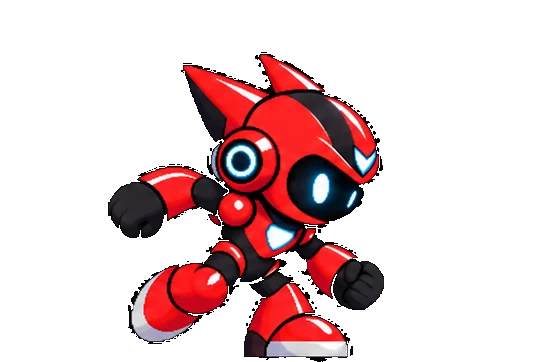
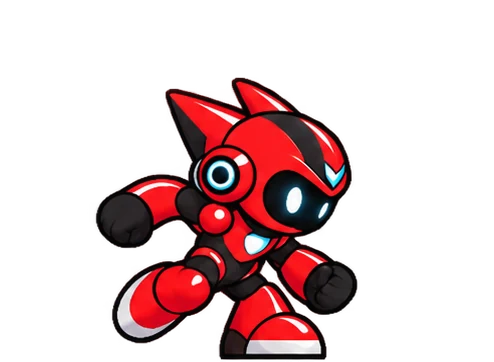
Swap in the updated slide frames and add the Impact VFX burst to the slide
- Slide frames re-extracted from the replaced slide sheet (transparent,
  no baked dust): same 362px height, pixel scale, feet line and head
  position as the run frames; canvas narrows to 494px, and the hitbox
  offset follows it so it stays centered under the robot.
- Slide kick-off: the VFX pack's "Impact" effect (14 frames at 30fps,
  shipped at half its native size) plays once just behind the feet when
  a slide starts. It stays where the slide began, so the robot slides
  away out of it, and removes itself when done.

Changed region(s): [[0.1822, 0.1519, 0.7287, 1.0]]

diff --git a/src/client/game/entities/Player.ts b/src/client/game/entities/Player.ts
@@ -11,6 +11,7 @@ import {
   playDeathExplosion,
   playHyperspeedTrail,
   playPlayerShatter,
+  playSlideImpact,
 } from '../systems/Juice';
 import { playSfx } from '../systems/Sfx';
 import {
@@ -37,8 +38,8 @@ import {
 // leg/arm contact poses, not near-duplicates — unlike the original 4x2
 // sheet, which only had one distinct leg pose and no way to fake a second
 // one that didn't look like the character spinning to face backwards).
-// player-slide-1..8 is the slide: drop in (1-2), slide with dust (3-6),
-// get back up (7-8) — see SLIDE_ANIM_KEY.
+// player-slide-1..8 is the slide: drop in (1-2), slide (3-6), get back up
+// (7-8) — see SLIDE_ANIM_KEY.
 export const PLAYER_TEXTURE_KEYS = [
   'player-idle',
   'player-run-1',
@@ -86,11 +87,11 @@ const RISE_KEY = 'player-jump-rise';
 const TUCK_KEY = 'player-jump-tuck';
 const FALL_KEY = 'player-jump-fall';
 const SLIDE_ANIM_KEY = 'player-slide';
-// The slide frames are wider than every other pose (legs stretch forward,
-// dust trails behind) but share its 362px height, pixel scale, and head
+// The slide frames are wider than every other pose (legs stretch forward)
+// but share its 362px height, pixel scale, and head
 // position, so they draw at PLAYER_BASE_SCALE without the robot changing
 // size; only the hitbox's x offset needs to know the wider canvas.
-const SLIDE_FRAME_WIDTH = 544;
+const SLIDE_FRAME_WIDTH = 494;
 // Share of SLIDE_DURATION_MS each slide frame holds: quick drop-in and
 // get-up, longer on the four sliding frames.
 const SLIDE_FRAME_WEIGHTS = [0.09, 0.09, 0.16, 0.16, 0.16, 0.16, 0.09, 0.09];
@@ -461,6 +462,8 @@ export class Player {
     this.slidePending = false;
     this.slideRemainingMs = SLIDE_DURATION_MS;
     this.setHitboxHeight(SLIDE_HITBOX_HEIGHT, SLIDE_FRAME_WIDTH);
+    // Just behind the feet, at shin height, as the slide kicks off.
+    playSlideImpact(this.scene, this.sprite.x - 20, this.sprite.y - 22);
   }
 
   private endSlide(): void {

diff --git a/src/client/game/systems/Juice.ts b/src/client/game/systems/Juice.ts
@@ -179,6 +179,29 @@ export function playDeathExplosion(scene: Phaser.Scene, x: number, y: number): v
   });
 }
 
+const SLIDE_IMPACT_ANIM_KEY = 'slide-impact';
+// ~73px on screen: about the robot's height, so the streaks frame the
+// feet rather than swallowing the whole character.
+const SLIDE_IMPACT_SCALE = 0.5;
+
+// One-shot white streak burst where a slide kicks off (Player.startSlide).
+// Left in the world at that spot rather than following the player, so the
+// robot visibly slides away out of it. The source pack runs at 30fps.
+export function playSlideImpact(scene: Phaser.Scene, x: number, y: number): void {
+  if (!scene.anims.exists(SLIDE_IMPACT_ANIM_KEY)) {
+    scene.anims.create({
+      key: SLIDE_IMPACT_ANIM_KEY,
+      frames: scene.anims.generateFrameNumbers('slide-impact'),
+      frameRate: 30,
+      repeat: 0,
+    });
+  }
+  const burst = scene.add.sprite(x, y, 'slide-impact', 0);
+  burst.setScale(SLIDE_IMPACT_SCALE);
+  burst.play(SLIDE_IMPACT_ANIM_KEY);
+  burst.once(Phaser.Animations.Events.ANIMATION_COMPLETE, () => burst.destroy());
+}
+
 const SHATTER_GRID = 3;
 const SHATTER_DURATION_MS = 380;
 

diff --git a/src/client/game/scenes/Preloader.ts b/src/client/game/scenes/Preloader.ts
@@ -132,6 +132,12 @@ export class Preloader extends Scene {
       frameHeight: 355,
     });
     this.load.image('death-kaboom', 'vfx/death-kaboom.webp');
+    // Slide kick-off burst (see Juice.playSlideImpact) — the VFX pack's
+    // "Impact" effect, all 14 frames at half its native 291x301.
+    this.load.spritesheet('slide-impact', 'vfx/slide-impact.webp', {
+      frameWidth: 146,
+      frameHeight: 151,
+    });
 
     // Power-up VFX (see Juice.attachElectricShield/playHyperspeedTrail),
     // also from the VFX Free Pack. shield-electric is the source pack's
